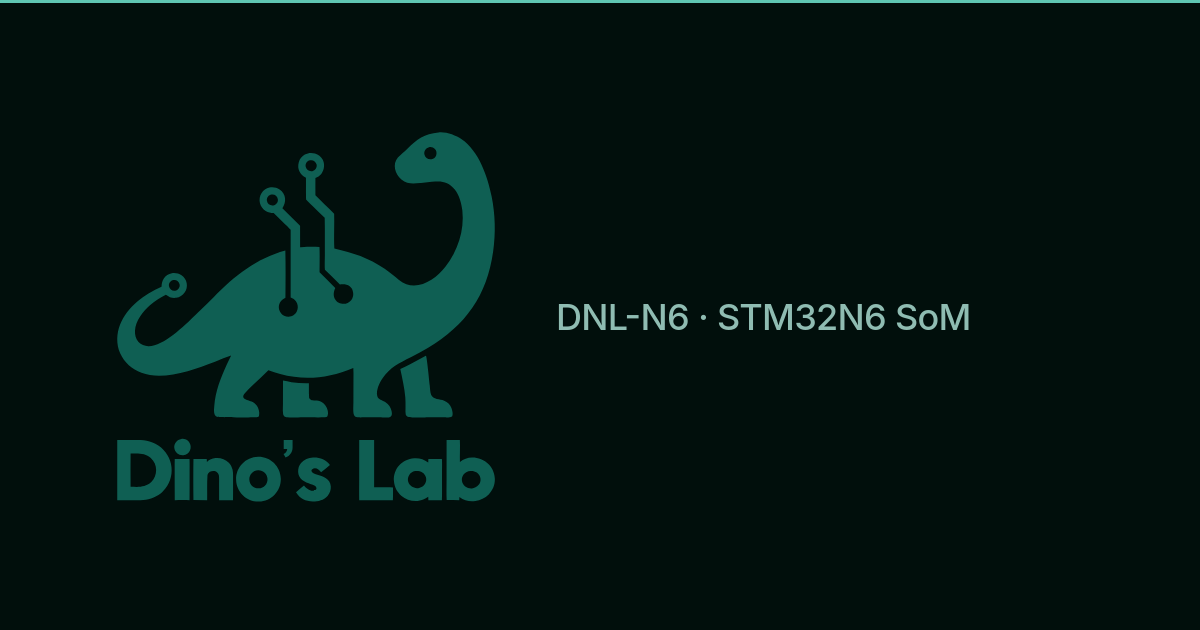
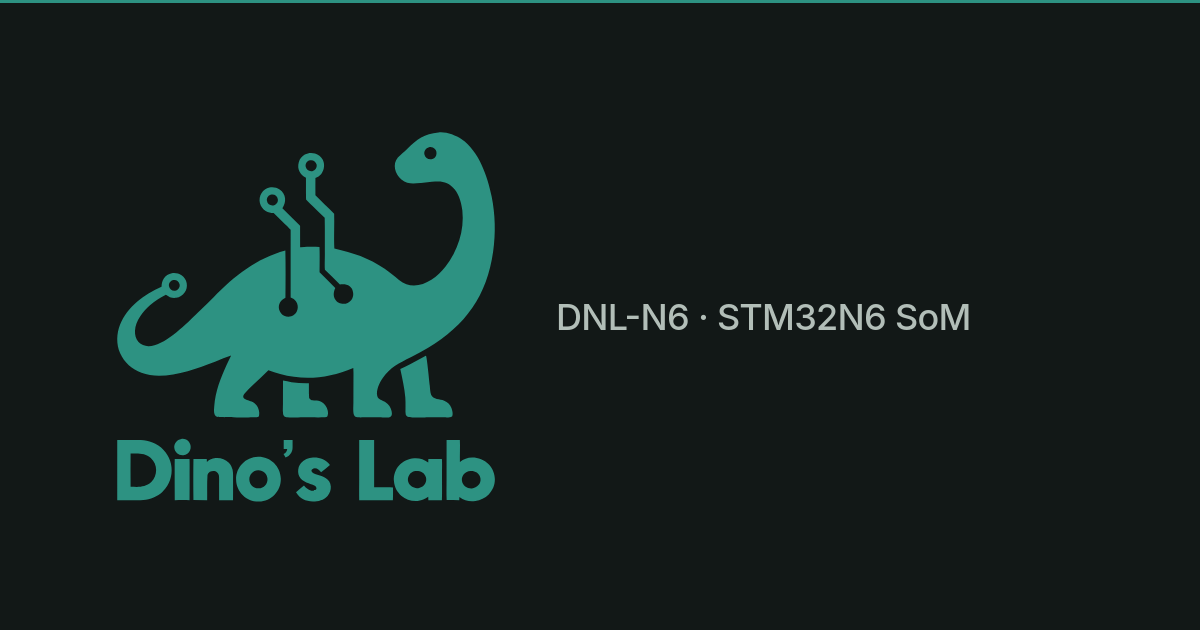
Update browser and sharing graphics to Signature Green
Serve the canonical Mark as the favicon in #2D9282 and rebuild
the 1200×630 share image with the square Logo on canvas.

diff --git a/resources/og.html b/resources/og.html
@@ -3,6 +3,7 @@
   <head>
     <meta charset="utf-8" />
     <title>Dino's Lab OG</title>
+    <!-- Signature Green: Logo in #2D9282 on canvas #121817. -->
     <style>
       @font-face {
         font-family: "Inter Variable";
@@ -20,14 +21,14 @@
         width: 1200px;
         height: 630px;
         overflow: hidden;
-        background: oklch(0.15 0.025 180);
-        color: oklch(0.96 0.05 180);
+        background: #121817;
+        color: #edf2ef;
         font-family: "Inter Variable", "Liberation Sans", sans-serif;
       }
 
       .bar {
         height: 3px;
-        background: oklch(0.76 0.1 180);
+        background: #2d9282;
       }
 
       .card {
@@ -51,7 +52,7 @@
         font-weight: 500;
         letter-spacing: -0.02em;
         line-height: 1.25;
-        color: oklch(0.76 0.05 180);
+        color: #b2beb8;
       }
     </style>
   </head>
